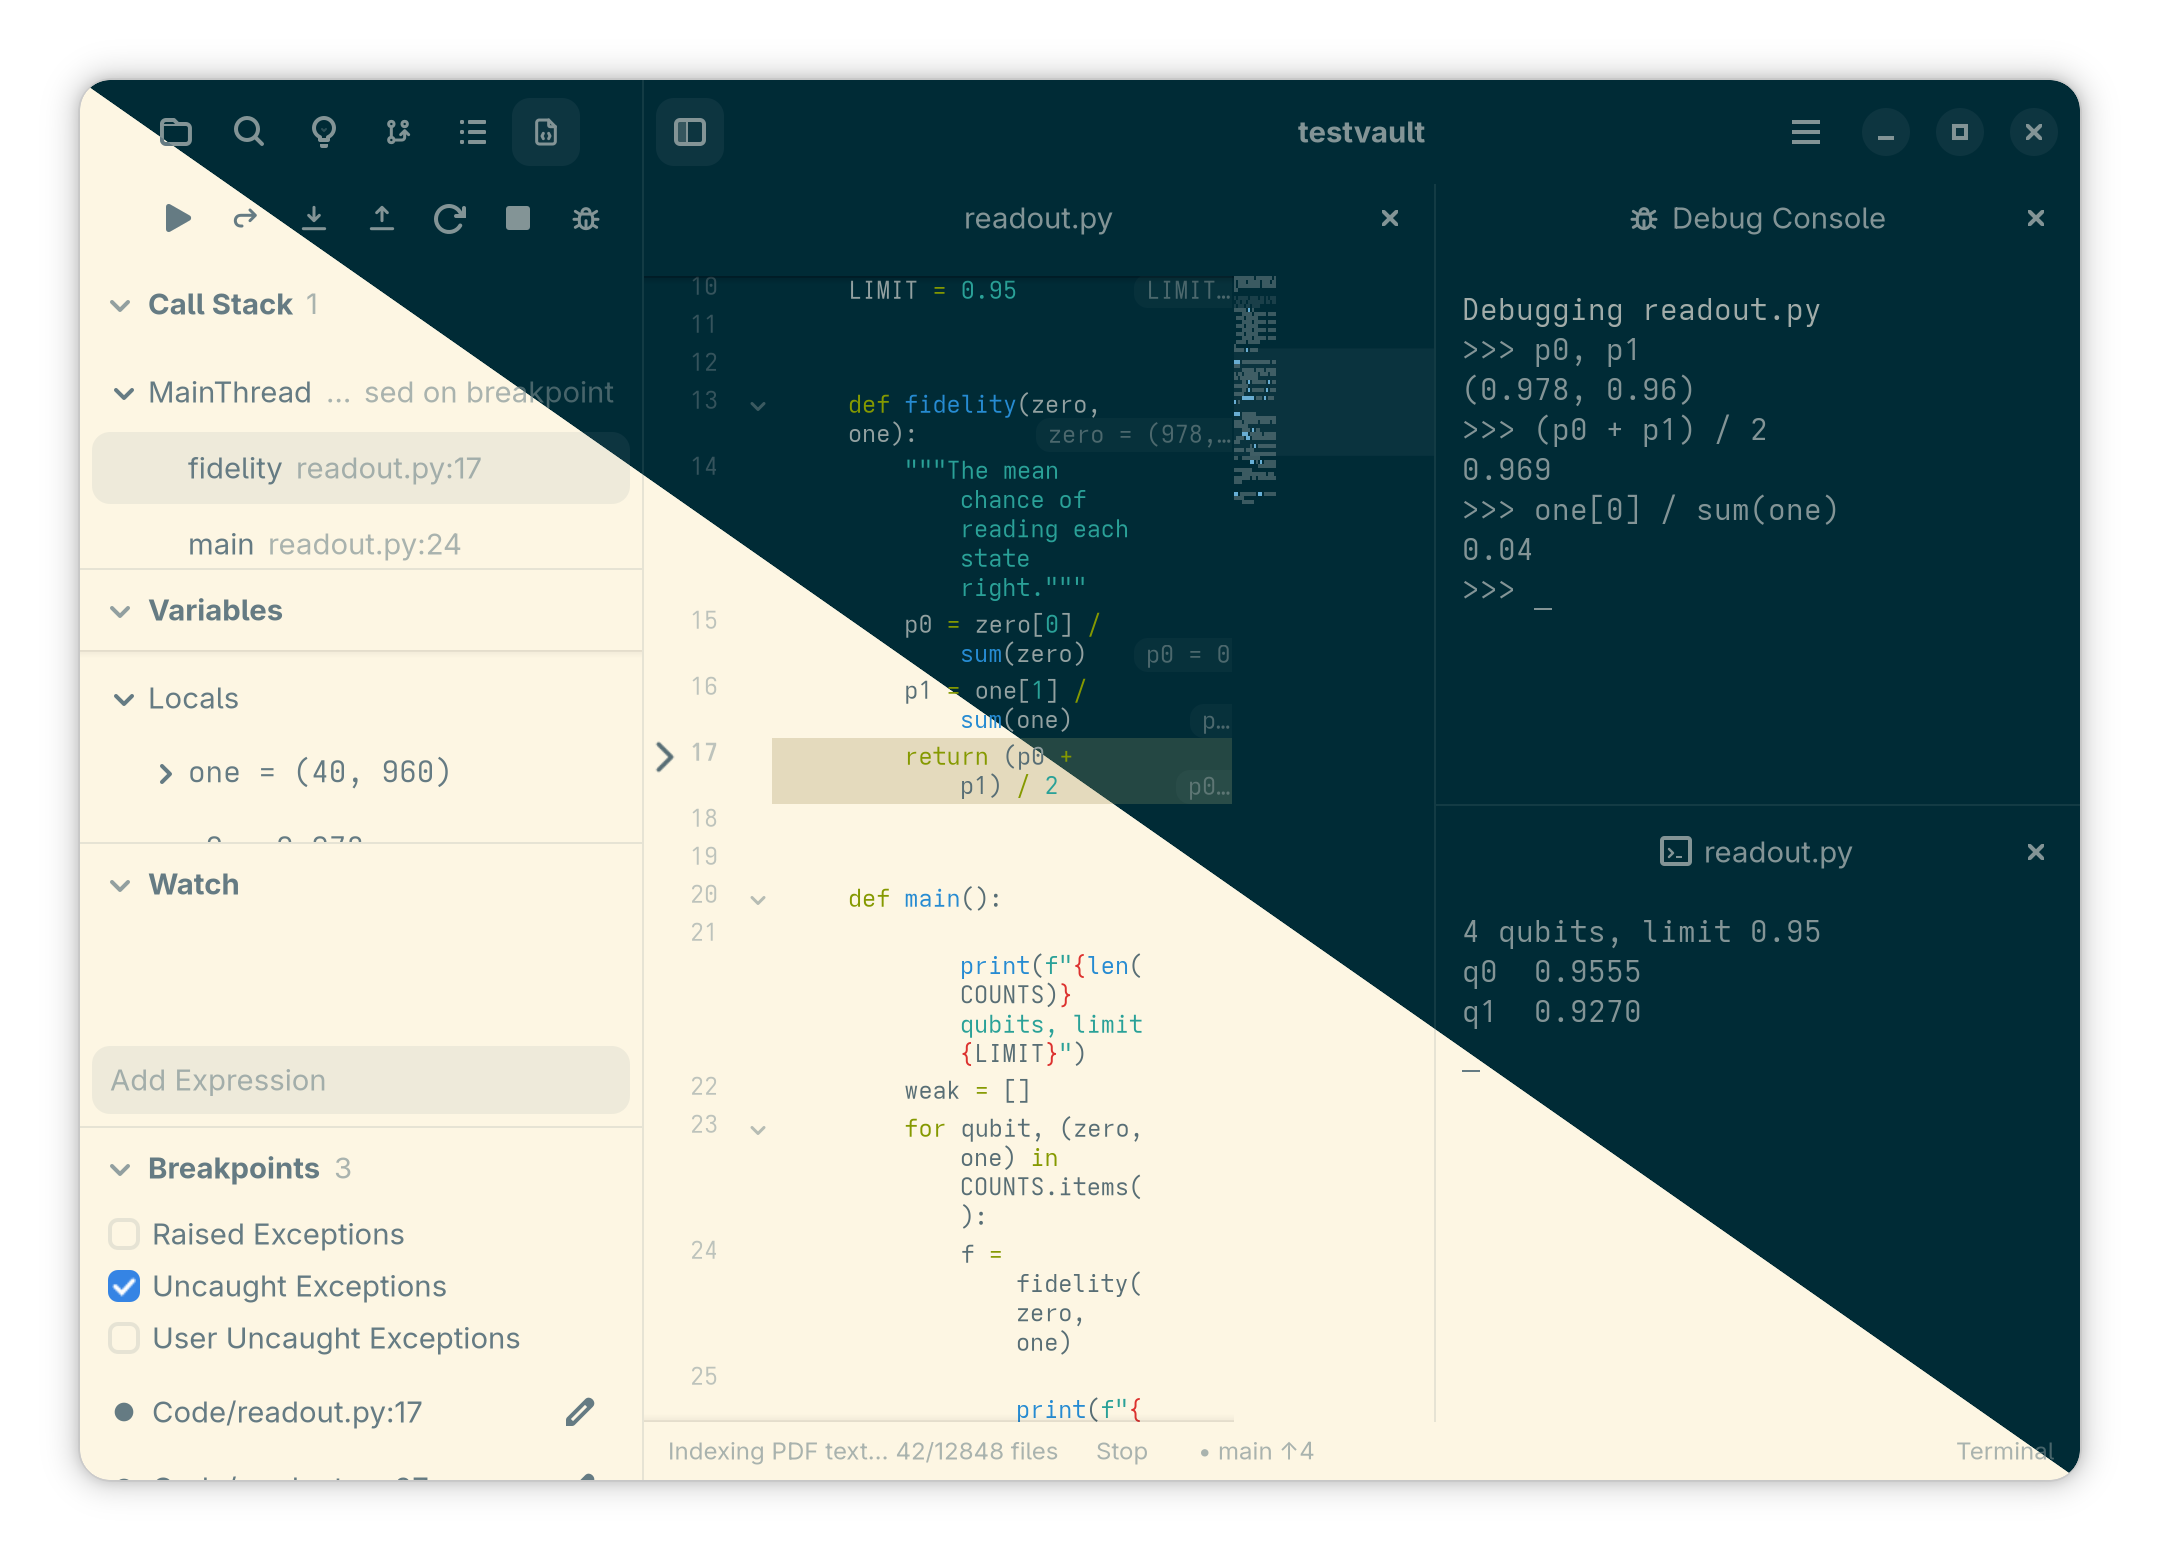
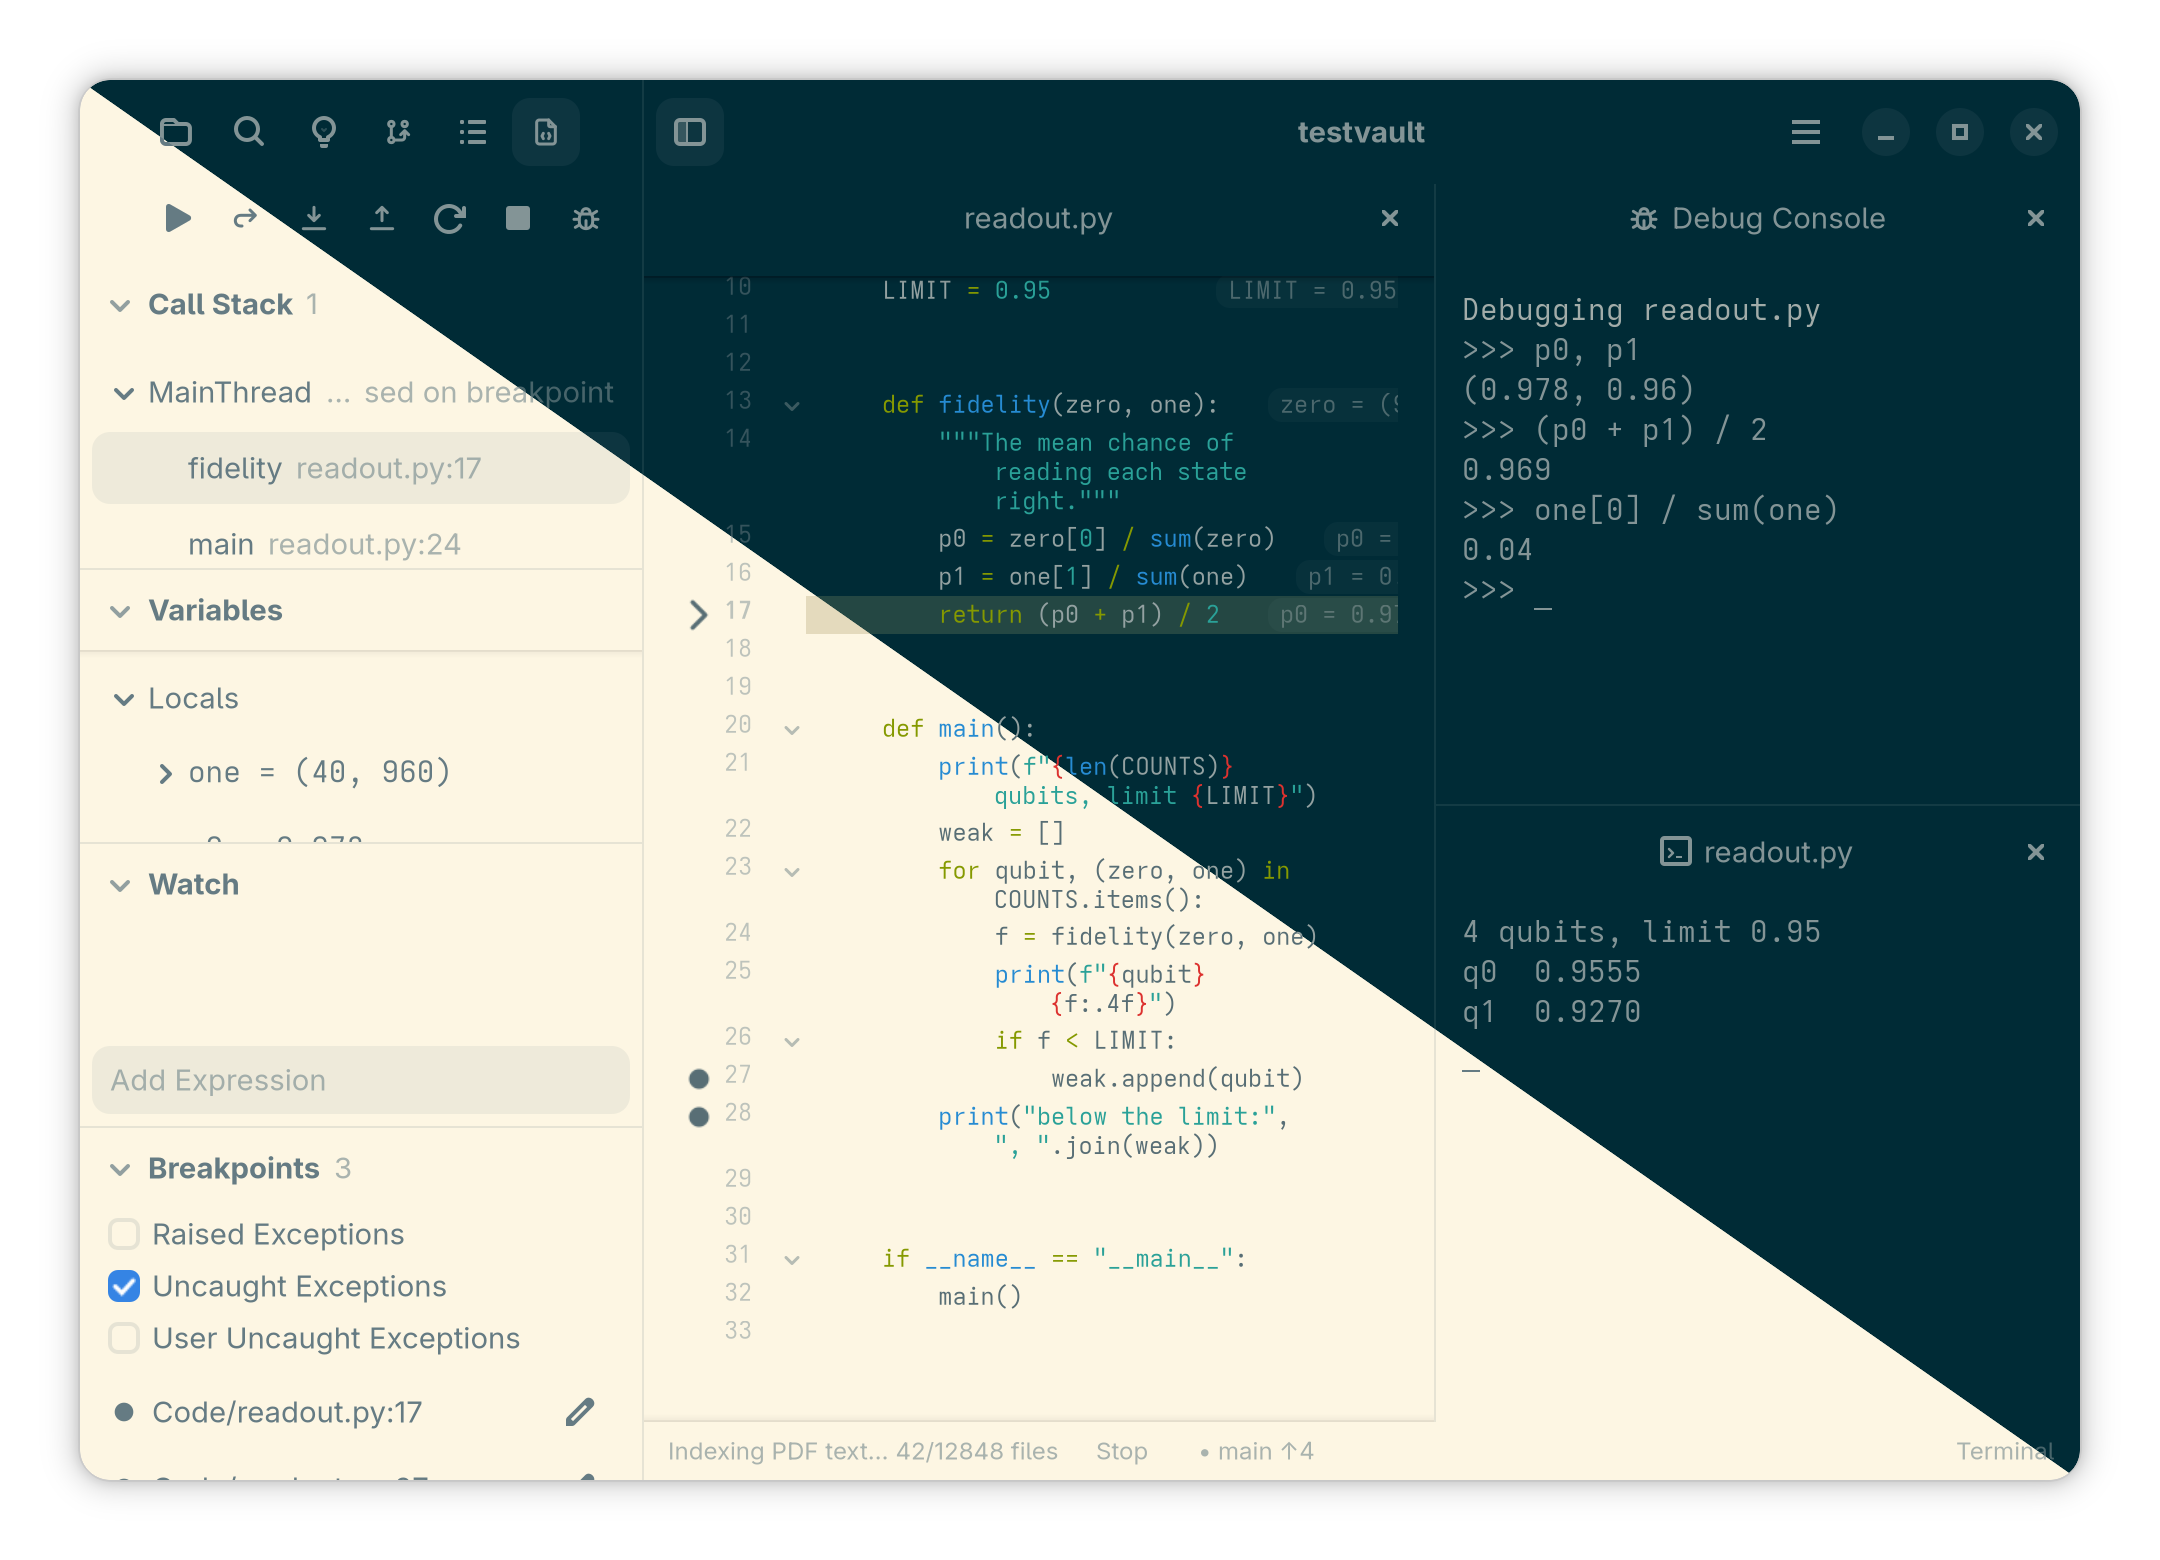
Revert "Show the minimap beside the code in the debugger screenshot"
This reverts commit da8f901ec806bb3d979e85db816de0d28005f73a.

diff --git a/apps/gtk/src/bench/shots.rs b/apps/gtk/src/bench/shots.rs
@@ -335,12 +335,10 @@ const ASKED: [&str; 3] = ["p0, p1", "(p0 + p1) / 2", "one[0] / sum(one)"];
 
 /// Scene 5: Solarized, a Python program paused in its third call to `fidelity`, the Code pane
 /// open on the calls and the locals, the Debug Console over the program's own terminal to its
-/// right, the code's minimap beside it.
+/// right.
 async fn scene_debug(app: &Rc<App>, shot: &Shot) {
     crate::theme::apply(Theme::Solarized);
     app.restyle_all();
-    app.config.borrow_mut().minimap = true;
-    app.config_changed();
     // Code beside two terminals, in a 1000 px window.
     app.set_zoom(0.8);
     open_all(app, &[PROGRAM]).await;
